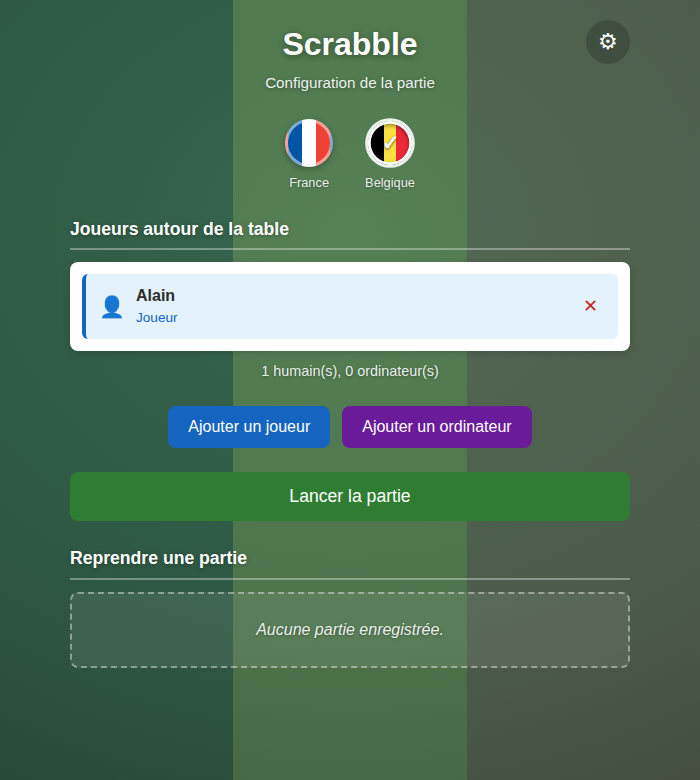
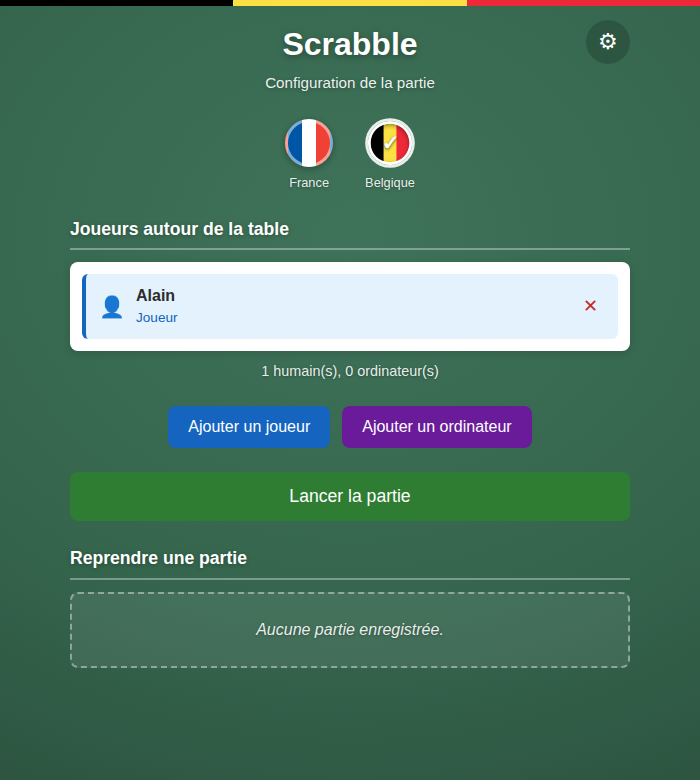
Issue #270 : bandeau tricolore opaque au lieu du voile rgba() invisible (mode Belgicisme)
Investigation : reproduction du rendu réel en WebKitGTK 2.52 (GTK+
WebKit2.WebView, capture via get_snapshot) — le rendu s'est avéré
pixel-à-pixel identique à la capture Chromium de #269. Ce n'est donc PAS
un bug de moteur WebKitGTK (ni l'empilement de background-image, ni les
arrêts de couleur durs du linear-gradient ne posent problème). La cause
réelle : à 12% d'opacité, un rgba() noir/jaune/rouge sur un vert saturé
se fond visuellement dans le vert sur les deux moteurs — et cette
opacité ne pouvait pas être montée sans casser le contraste WCAG AA déjà
tout juste respecté (4.55:1 à 12%, sous le seuil dès 15%).

Correctif : remplace le voile pleine-page par un bandeau opaque (couleurs
franches du drapeau belge) limité à 6px en haut du fond, donc jamais sous
le texte et sans contrainte de contraste. Ajoute un harnais Python
(verif_belgicisme_270_webkitgtk.py) pour rejouer la vérification en
WebKitGTK réel, et met à jour le test Playwright existant en conséquence.

Changed region(s): [[0.33, 0.8615, 0.69, 1.0], [0.0, 0.0, 1.0, 0.0308], [0.54, 0.1846, 0.57, 0.2154]]

diff --git a/src/scrabble/ui/web/accueil.css b/src/scrabble/ui/web/accueil.css
@@ -55,25 +55,41 @@ body {
     transition: background-image 0.2s ease;
 }
 
-/* Mode Belgicisme (issue #269) : léger voile tricolore noir-jaune-rouge posé
-   PAR-DESSUS le tapis vert habituel (le radial-gradient n'est pas remplacé,
-   simplement calque en second plan) — opacité volontairement faible (12 %)
-   pour rester discret et ne pas gêner la lecture. Contraste vérifié : sur la
-   zone la plus claire du tapis (--tapis-vert-clair, la plus défavorable) avec
-   la bande jaune (la plus lumineuse des trois), le texte blanc conserve un
-   ratio de contraste ≈ 4.6:1, au-dessus du seuil WCAG AA (4.5:1) — et les
-   textes de l'accueil ajoutent déjà une ombre portée qui renforce encore la
-   lisibilité. Bandes verticales façon drapeau pour rester immédiatement
-   reconnaissables malgré l'opacité faible. */
+/* Mode Belgicisme (issue #269, corrigé #270) : voile tricolore noir-jaune-rouge
+   posé PAR-DESSUS le tapis vert habituel. La première version (#269) teintait
+   tout le fond avec des bandes rgba() à 12 % d'opacité par-dessus le
+   radial-gradient vert : validée en Chromium headless, mais Alain a constaté
+   en usage réel (WebKitGTK) que le résultat ne montre AUCUNE trace visible de
+   noir/jaune/rouge — juste des nuances de vert (issue #270).
+   Investigation #270 : reproduction du rendu réel en WebKitGTK 2.52 (GTK+
+   WebKit2.WebView, capture via get_snapshot) — le rendu WebKitGTK s'est avéré
+   PIXEL-À-PIXEL identique à la capture Chromium de #269. Ce n'est donc PAS un
+   bug de moteur (ni l'empilement de background-image, ni les arrêts de
+   couleur durs du linear-gradient ne posent problème à WebKitGTK) : à 12 %
+   d'opacité, un rgba() noir/jaune/rouge posé sur un vert aussi saturé se fond
+   simplement dans le vert pour l'œil humain, sur les deux moteurs. Et cette
+   opacité ne pouvait pas être montée : le contraste blanc/bande-jaune-mélangée
+   est déjà tout juste au-dessus du seuil WCAG AA (4.5:1) à 12 % ; il tombe
+   sous ce seuil dès 15 %.
+   Nouvelle approche : au lieu d'un voile translucide sur toute la page (donc
+   nécessairement contraint par le contraste du texte par-dessus), un bandeau
+   plein-opaque aux couleurs franches du drapeau belge, limité à une fine
+   bande en haut du fond (6px, avant même la marge du header) — visible sans
+   ambiguïté, sans jamais passer sous du texte donc sans contrainte de
+   contraste. Le radial-gradient vert reste identique et occupe tout le reste
+   du fond, inchangé par rapport au mode France. */
 body.mode-belgicisme {
     background-image:
         linear-gradient(
             90deg,
-            rgba(0, 0, 0, 0.12) 0%, rgba(0, 0, 0, 0.12) 33.33%,
-            rgba(250, 224, 66, 0.12) 33.33%, rgba(250, 224, 66, 0.12) 66.66%,
-            rgba(237, 41, 57, 0.12) 66.66%, rgba(237, 41, 57, 0.12) 100%
+            #000000 0%, #000000 33.33%,
+            #fae042 33.33%, #fae042 66.66%,
+            #ed2939 66.66%, #ed2939 100%
         ),
         radial-gradient(120% 90% at 50% 30%, var(--tapis-vert-clair) 0%, var(--tapis-vert) 55%, var(--tapis-vert-fonce) 100%);
+    background-repeat: no-repeat, no-repeat;
+    background-size: 100% 6px, 100% 100%;
+    background-position: top center, center;
 }
 
 .container {

diff --git a/scripts/_harness_jeu/verif_belgicisme_270_webkitgtk.py b/scripts/_harness_jeu/verif_belgicisme_270_webkitgtk.py
@@ -1,0 +1,133 @@
+"""Vérification issue #270 : rendu réel du bandeau tricolore du mode
+Belgicisme sous WebKitGTK (le moteur utilisé par pywebview sous Linux, cf.
+CONTEXTE.md — le harnais Playwright habituel de _harness_jeu ne teste que
+Chromium et n'aurait pas détecté le rendu réel visé par cette issue).
+
+Charge accueil.html/css/js (avec la même API pywebview mockée que
+verif_belgicisme_269.mjs) dans un vrai WebKit2.WebView, bascule France <->
+Belgique plusieurs fois et capture un screenshot du rendu final via
+webkit_web_view_get_snapshot (pas un screenshot X11 : un rendu direct de la
+page, indépendant du gestionnaire de fenêtres).
+
+Prérequis système (déjà présents sur cette machine) : gir1.2-webkit2-4.1,
+python3-gi, un DISPLAY X11 valide (le WebView a besoin d'un GtkWindow réel ;
+pas de Xvfb installé ici, mais le DISPLAY existant a suffi).
+
+Usage : python3 verif_belgicisme_270_webkitgtk.py [dossier_sortie]
+"""
+import pathlib
+import sys
+
+import gi
+
+gi.require_version("Gtk", "3.0")
+gi.require_version("WebKit2", "4.1")
+from gi.repository import GLib, Gtk, WebKit2  # noqa: E402
+
+ICI = pathlib.Path(__file__).resolve().parent
+WEB = ICI.parent.parent / "src" / "scrabble" / "ui" / "web"
+SORTIE = pathlib.Path(sys.argv[1]) if len(sys.argv) > 1 else ICI
+
+MOCK_JS = """
+window.pywebview = { platform: 'test' };
+window.__appelsMode = [];
+setTimeout(() => {
+  window.pywebview.api = {
+    obtenir_etat: async () => ({
+      joueurs: [{nom:'Alain', humain:true, niveau:null}],
+      nb_humains: 1, nb_ordinateurs: 0, nb_total: 1,
+      peut_ajouter_humain: true, peut_ajouter_ordinateur: true, peut_lancer: true,
+      mode_belgicisme: false,
+    }),
+    obtenir_niveaux: async () => ['Débutant','Facile','Intermédiaire','Expert'],
+    lister_parties_en_cours: async () => [],
+    obtenir_prenom_principal: async () => 'Alain',
+    definir_mode_belgicisme: async (actif) => {
+      window.__appelsMode.push(actif);
+      return { succes: true, mode_belgicisme: actif };
+    },
+  };
+  window.dispatchEvent(new Event('pywebviewready'));
+}, 100);
+"""
+
+
+def construire_mock():
+    css = (WEB / "accueil.css").read_text()
+    js = (WEB / "accueil.js").read_text()
+    html = (WEB / "accueil.html").read_text()
+    html = html.replace(
+        '<link rel="stylesheet" href="accueil.css">', f"<style>{css}</style>"
+    )
+    html = html.replace(
+        '<script src="accueil.js"></script>',
+        f"<script>{MOCK_JS}</script><script>{js}</script>",
+    )
+    chemin = SORTIE / "_i270_mock_tmp.html"
+    chemin.write_text(html)
+    return chemin
+
+
+def capturer(url, sortie_png, sequence_clics):
+    win = Gtk.Window()
+    win.set_default_size(900, 700)
+    webview = WebKit2.WebView()
+    win.add(webview)
+    win.show_all()
+
+    etape = {"i": 0}
+
+    def apres_chargement(view, event):
+        if event == WebKit2.LoadEvent.FINISHED and etape["i"] == 0:
+            etape["i"] = 1
+            GLib.timeout_add(400, lambda: jouer_sequence(0))
+
+    def jouer_sequence(i):
+        if i >= len(sequence_clics):
+            GLib.timeout_add(300, prendre_snapshot)
+            return False
+        webview.run_javascript(
+            f"document.querySelector('{sequence_clics[i]}').click();",
+            None, None, None,
+        )
+        GLib.timeout_add(250, lambda: jouer_sequence(i + 1))
+        return False
+
+    def prendre_snapshot():
+        webview.get_snapshot(
+            WebKit2.SnapshotRegion.FULL_DOCUMENT,
+            WebKit2.SnapshotOptions.NONE,
+            None, snapshot_pret, None,
+        )
+        return False
+
+    def snapshot_pret(view, result, data):
+        surface = webview.get_snapshot_finish(result)
+        surface.write_to_png(str(sortie_png))
+        Gtk.main_quit()
+
+    webview.connect("load-changed", apres_chargement)
+    webview.load_uri("file://" + url)
+    GLib.timeout_add(15000, Gtk.main_quit)
+    Gtk.main()
+
+
+if __name__ == "__main__":
+    mock = construire_mock()
+    url = str(mock)
+
+    print("Capture France (défaut)...")
+    capturer(url, SORTIE / "i270_accueil_france_webkitgtk.png", [])
+
+    print("Capture Belgique (après 5 bascules France/Belgique)...")
+    capturer(
+        url,
+        SORTIE / "i270_accueil_belgique_webkitgtk.png",
+        [
+            "#drapeau-belgique", "#drapeau-france", "#drapeau-belgique",
+            "#drapeau-france", "#drapeau-belgique",
+        ],
+    )
+
+    mock.unlink()
+    print("Captures écrites dans", SORTIE)
